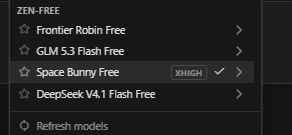
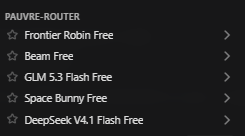
docs: README refait - court et noob-friendly (demarrage en 4 etapes), nouvelle capture du picker (groupe PAUVRE-ROUTER, 5 modeles)

diff --git a/README.md b/README.md
@@ -1,7 +1,7 @@
-# Le Router des Pauvres 🗑🚀
+# Pauvre-Router 🗑🚀
 
 <p align="center">
-  <img src="assets/banner.jpg" alt="Router des Pauvres 🗑🚀" width="100%" />
+  <img src="assets/banner.jpg" alt="Pauvre-Router 🗑🚀" width="100%" />
 </p>
 
 <p align="center">
@@ -9,138 +9,23 @@
 </p>
 
 <p align="center">
-  <a href="#-fonctionnalités-clés"><img src="https://img.shields.io/badge/Rust-std--only-f97316?style=for-the-badge&logo=rust&logoColor=white" alt="Rust std-only" /></a>
-  <a href="#-fonctionnalités-clés"><img src="https://img.shields.io/badge/Taille-~650_KB-3b82f6?style=for-the-badge&logo=cargo&logoColor=white" alt="Binaire 650KB" /></a>
-  <a href="#-modèles-frontière-gratuits--matrice-comparative"><img src="https://img.shields.io/badge/Budget_API-0_€_(100%25_Gratuit)-10b981?style=for-the-badge&logo=free&logoColor=white" alt="100% Gratuit" /></a>
-  <a href="#-endpoints-http"><img src="https://img.shields.io/badge/Endpoints-Standard-8b5cf6?style=for-the-badge&logo=http&logoColor=white" alt="Endpoints Standard" /></a>
-  <a href="#-modèles-frontière-gratuits--matrice-comparative"><img src="https://img.shields.io/badge/Modèles-4_Frontières-ec4899?style=for-the-badge" alt="4 Modèles Frontière" /></a>
+  <a href="#-démarrage-rapide"><img src="https://img.shields.io/badge/Rust-std--only-f97316?style=for-the-badge&logo=rust&logoColor=white" alt="Rust std-only" /></a>
+  <a href="#-démarrage-rapide"><img src="https://img.shields.io/badge/Binaire-~650_KB-3b82f6?style=for-the-badge&logo=cargo&logoColor=white" alt="Binaire 650KB" /></a>
+  <a href="#-les-modèles"><img src="https://img.shields.io/badge/Budget_API-0_€-10b981?style=for-the-badge&logo=free&logoColor=white" alt="0€" /></a>
+  <a href="#-les-modèles"><img src="https://img.shields.io/badge/Modèles-5-ec4899?style=for-the-badge" alt="5 modèles" /></a>
   <a href="#-licence"><img src="https://img.shields.io/badge/License-MIT-green?style=for-the-badge" alt="MIT" /></a>
 </p>
 
-> **Le proxy local qui route vers les modèles frontière gratuits d'OpenCode Zen** — pour tous ceux qui refusent de payer des abonnements, n'ont aucun budget API et veulent lancer des dizaines d'agents.
+> **Un proxy local qui donne accès aux modèles frontière gratuits d'OpenCode Zen.**
+> Tu veux coder avec des modèles de pointe sans payer ? Lance le binaire, branche Hermes, c'est tout.
 
 ---
 
-## 💡 Pourquoi ce projet ?
+## 🚀 Démarrage rapide
 
-Depuis le **14 octobre 2026**, OpenCode Zen exige l'empreinte cryptographique du client officiel OpenCode (TLS handshake spécifique + wire verification anti-MITM / anti-replay).
-Impossible d'appeler l'API en direct avec un simple `curl` ou un client OpenAI standard sans se faire bloquer.
-
-**Router des Pauvres** résout élégamment le problème :
-1. Il reçoit vos requêtes sur son interface standard `POST /v1/chat/completions`.
-2. Il délègue l'exécution sous le capot au binaire officiel `opencode run` qui valide le fingerprint à 100%.
-3. Il restitue les flux en format `chat.completions` standard avec gestion des caches, du rate-limiting et de la redondance.
-
----
-
-## 🏛 Architecture & Flux d'Exécution
-
-<p align="center">
-  <img src="assets/architecture.svg" alt="Architecture & Request Flow" width="100%" />
-</p>
-
----
-
-## ✨ Fonctionnalités Clés
-
-<p align="center">
-  <img src="assets/features-grid.svg" alt="Fonctionnalités Clés" width="100%" />
-</p>
-
-- **Standard** : `POST /v1/chat/completions`, `GET /v1/models` — branche n'importe quel client (Hermes, scripts, curl, Continue.dev, VSCode…)
-- **⭐ GLM 5.3 Flash gratuit** en tête de cascade (qualité frontière, testé en live)
-- **`frontier-robin-free`** — notre pseudo-modèle **round-robin permanent** : chaque requête tourne sur les frontières (`glm` → `space-bunny` → `deepseek` → `glm` → …). La répartition de charge en un seul identifiant de modèle.
-- **2 modes de routage** (switch à chaud via `/admin/mode`) :
-  - `priority` (défaut) : **exhaust le meilleur modèle** avant de basculer sur le suivant
-  - `roundrobin` : répartit la charge uniformément à chaque requête
-- **🔑 Rotation de clés API toujours active** : le pool tourne en round-robin par défaut — clé quota-blocked = cooldown 30 min persistant, la suivante prend le relais, **fallback anonyme** si aucune clé utilisable (jamais de mix clé/anonyme, sinon `Invalid credential` chez Zen)
-- **Détection d'exhaustion & Quarantaine** : classification (quota / rate-limit / model invalide / timeout) + **cooldowns à backoff exponentiel** (2 min → 1 h)
-- **Anti-spam robuste** : token bucket par IP (rafale 5, 20 req/min), plafond 3 spawns opencode simultanés, body max 1,5 Mo
-- **Cache de déduplication** : prompts identiques servis du cache en 0 ms (TTL 10 min, LRU 128, hash sha256 maison)
-- **Administration à chaud** : `/admin/stats`, `/admin/mode`, `/admin/keys`, `/admin/reset`
-- **Persistance automatique** : santé + stats (60 s) et cooldowns de clés enregistrés sur disque
-- **Rust std-only** : binaire unique ~650 KB, zéro dépendance lourde (aucun tokio/reqwest)
-
----
-
-## ⚡ Modèles Frontière Gratuits & Matrice Comparative
-
-<p align="center">
-  <img src="assets/models-matrix.svg" alt="Matrice des Modèles Frontière" width="100%" />
-</p>
-
-| Modèle | Latence | Spécialité | Statut |
-|---|---|---|---|
-| 🆕 `beam-free` | **5,3 s** ⚡ | **1M de contexte**, 131K output, raisonnement + tool calling — le plus rapide des 4 | 🟢 Gratuit (durée limitée) |
-| `space-bunny-free` | **5,7 s** ⚡ | Le sprinter ultra-rapide pour questions courtes et chat | 🟢 Gratuit Zen |
-| `deepseek-v4.1-flash-free` | **9,0 s** | Modèle polyvalent DeepSeek V4.1, analyse & synthèse | 🟢 Gratuit Zen |
-| ⭐ `glm-5.3-flash-free` | 6,4 s | **Frontière de pointe** — qualité supérieure pour le code et le raisonnement | 🟢 Gratuit Zen |
-| 🔄 `frontier-robin-free` | *Dynamique* | **Pseudo-modèle maître** — équilibrage de charge tournant sur les 4 frontières | 🟣 Master Load-Balancer |
-
-> **Ordre de cascade en mode priorité :**  
-> `beam-free` ➔ `glm-5.3-flash-free` ➔ `space-bunny-free` ➔ `deepseek-v4.1-flash-free`.  
-> Le modèle demandé explicitement passe toujours en premier ; `frontier-robin-free` route sur les quatre en rotation continue.
-
----
-
-## 🔑 Rotation de Clés & Résilience Quotas
-
-<p align="center">
-  <img src="assets/key-rotation.svg" alt="Cycle de rotation de clés" width="100%" />
-</p>
-
-1. **Pool Actif** : Vos clés API tournent en round-robin pour maximiser le débit sans saturer une clé unique.
-2. **Détection 429** : Dès qu'une clé retourne un quota épuisé, elle est placée en quarantaine immédiate pendant 30 min (persisté dans `~/.pauvre-router-keys.json`).
-3. **Bascule Instantanée** : La clé suivante prend le relais sans que le client ne subisse d'erreur.
-4. **Fallback Anonyme** : Si toutes les clés du pool sont en quarantaine, le router bascule en mode Zen Anonyme sans mélanger les états.
-5. **Backoff Progressif** : En cas d'erreurs répétées (rate-limit ou timeout), les cooldowns passent de 2 min ➔ 5 min ➔ 15 min ➔ 1 h.
-
----
-
-## 🔌 Endpoints HTTP
-
-| Endpoint | Méthode | Description |
-|---|---|---|
-| `/health` | `GET` | État vivant, version compilée et requêtes in-flight |
-| `/v1/models` | `GET` | Liste des modèles disponibles (`frontier-robin-free` + les 4 frontières) |
-| `/v1/chat/completions` | `POST` | Chat standard (cascade/mode automatique) |
-| `/admin/stats` | `GET` | Métriques d'usage, état de santé, statistiques anti-spam, mode actif |
-| `/admin/mode` | `GET` / `POST` | Consultation et bascule à chaud du mode de routage (`priority` / `roundrobin`) |
-| `/admin/keys` | `GET` | Métadonnées du pool de clés (clés masquées pour sécurité) |
-| `/admin/keys/add` | `POST` | Ajoute une clé API au pool : `{"key": "sk-..."}` |
-| `/admin/keys/remove` | `POST` | Retire une clé API du pool : `{"key": "sk-..."}` |
-| `/admin/keys/reanimate`| `POST` | Réactive une clé ou purge tous les cooldowns : `{}` ou `{"key": "sk-..."}` |
-| `/admin/reset` | `POST` | Purge intégrale du cache de déduplication et des cooldowns modèles |
-
----
-
-## 🚀 Installation & Démarrage
-
-Guide complet multi-plateformes (Windows / Linux / macOS, service auto-start, plugin Hermes) : **[SKILL.md](SKILL.md)**.  
-Feuille de route et évolutions : **[TODO.md](TODO.md)**.
-
-```bash
-# Compilation du binaire optimisé (~650 KB)
-cargo build --release
-
-# Lancement
-./target/release/pauvre-router.exe
-```
-
-### Variables d'Environnement
-
-| Variable | Valeur par défaut | Description |
-|---|---|---|
-| `PAUVRE_OPENCODE` | Chemin auto détecté (Windows) | Chemin absolu vers le CLI `opencode` (*requis sur Linux/macOS*) |
-| `PAUVRE_STATE` | `~/.pauvre-router-state.json` | Fichier de persistance des statistiques et de la santé |
-| `PAUVRE_KEYS` | `~/.pauvre-router-keys.json` | Fichier de stockage sécurisé du pool de clés et cooldowns |
-| `PAUVRE_MODE` | `priority` | Mode de routage par défaut au démarrage (`priority` ou `roundrobin`) |
-
----
-
-## 🦹 Intégration Hermes Desktop
-
-Ajoutez ce provider dans votre configuration Hermes (`config.yaml`) :
+1. **Télécharge le binaire** : [Releases](../../releases) (Windows / Linux / macOS)
+2. **Lance-le** — il écoute sur `127.0.0.1:4445`
+3. **Branche ton client** — exemple Hermes (`config.yaml`) :
 
 ```yaml
 custom_providers:
@@ -156,36 +41,63 @@ custom_providers:
     deepseek-v4.1-flash-free: {}
 ```
 
-> ⚠ **Note :** La liste `models:` du `config.yaml` est statique : c'est elle qui alimente le picker de modèles d'Hermes.
-
-Résultat dans le picker d'Hermes Desktop — le groupe **PAUVRE-ROUTER** avec les 4 modèles, sélection de `space-bunny-free` (contexte XHIGH) :
+4. Redémarre Hermes → le groupe **PAUVRE-ROUTER** apparaît dans le picker :
 
 <p align="center">
-  <img src="assets/hermes-picker.png" alt="Modèles pauvre-router dans le picker Hermes Desktop" width="85%" />
+  <img src="assets/hermes-picker.png" alt="Groupe PAUVRE-ROUTER dans le picker Hermes" width="70%" />
 </p>
 
-### 🖥 Plugin Desktop Hermes
+💡 **`frontier-robin-free` = le mode "à l'aveugle"** : un seul modèle à choisir, il envoie chaque requête au meilleur modèle du moment tout seul.
 
-Un pane de monitoring en temps réel pour Hermes (santé, cooldowns, métriques, mode en badge) est fourni avec le projet.  
-Consultez le **[`SKILL.md`](SKILL.md) §3** pour la configuration pas-à-pas.
+Compilation depuis la source et guides multi-plateformes (auto-start, plugin Hermes) : **[SKILL.md](SKILL.md)**.
 
 ---
 
-## 📦 Releases
+## 🤖 Les modèles
 
-Les binaires Windows, Linux et macOS sont construits et packagés automatiquement par GitHub Actions à chaque tag :  
-Consultez la page **[Releases](../../releases)** pour télécharger les binaires précompilés.
+Tous gratuits, testés en live :
 
-## 🧪 Tests
+| Modèle | Vitesse | Pour quoi |
+|---|---|---|
+| 🔄 `frontier-robin-free` | *auto* | **Choix recommandé** — route tout seul vers le meilleur |
+| `beam-free` | 5,3 s | 1M de contexte, le plus rapide |
+| `glm-5.3-flash-free` | 6,4 s | Le plus malin pour le code |
+| `space-bunny-free` | 5,7 s | Rapide pour le chat |
+| `deepseek-v4.1-flash-free` | 9,0 s | Bon en analyse |
 
-**84 tests** (59 unitaires + 6 backend stub + 19 E2E), tous verts en `cargo test` comme en `cargo test --release` :
+Si un modèle tombe (quota, panne), le suivant prend le relais automatiquement. Tu ne vois rien.
 
-- **E2E** (`tests/e2e.rs`) : de vrais serveurs démarrent sur des ports éphémères (mêmes workers que la prod) et parlent TCP pour de vrai — un stub `opencode` (`src/bin/stub-opencode.rs`, piloté par env `STUB_FAIL`) remplace le CLI réel. Couverture : cascade de fallback, cooldowns, 429 tous-cooldowns, anti-spam token bucket, SSE streaming, cache, rotation de clés prouvée côté spawn, timeout backend, keep-alive, 413, persistance de l'état sur reboot, 12 requêtes concurrentes.
+---
 
-Historique complet : [CHANGELOG.md](CHANGELOG.md).
+## ✨ Ce qu'il fait pour toi
+
+- **Anti-coupure** — quota épuisé ou modèle down → bascule automatique sur le suivant
+- **Robin intelligent** — apprend les latences réelles et envoie chaque requête au plus rapide fiable
+- **Clés API en rotation** (optionnel) — ajoutes-en plusieurs, il gère les quotas tout seul
+- **Anti-spam** — protections intégrées si tu lances des dizaines d'agents
+- **Cache** — même question = réponse instantanée
+- **Mise à jour** — il te prévient quand une nouvelle version sort (`/health` → `update.available`)
+- **661 KB, zéro dépendance** — un seul fichier, ça tourne partout
+
+---
+
+## 📊 Surveillance
+
+| URL | Quoi |
+|---|---|
+| `http://127.0.0.1:4445/health` | Vivant ? Quelle version ? Mise à jour dispo ? |
+| `http://127.0.0.1:4445/admin/stats` | Stats complètes (latences, modèles, spam) |
+
+---
+
+## 📦 Releases & Tests
+
+Binaires Windows / Linux / macOS construits par GitHub Actions : **[Releases](../../releases)**.
+
+**84 tests** (unitaires + backend stub + E2E TCP), tous verts en dev et release — voir [CHANGELOG.md](CHANGELOG.md) pour l'historique.
 
 ---
 
 ## 📜 Licence
 
-Projet distribué sous licence **MIT** — mais le nom officiel reste « **le router des pauvres** ». 🗑🚀
+**MIT** — et le nom reste *Pauvre-Router*. 🗑🚀
